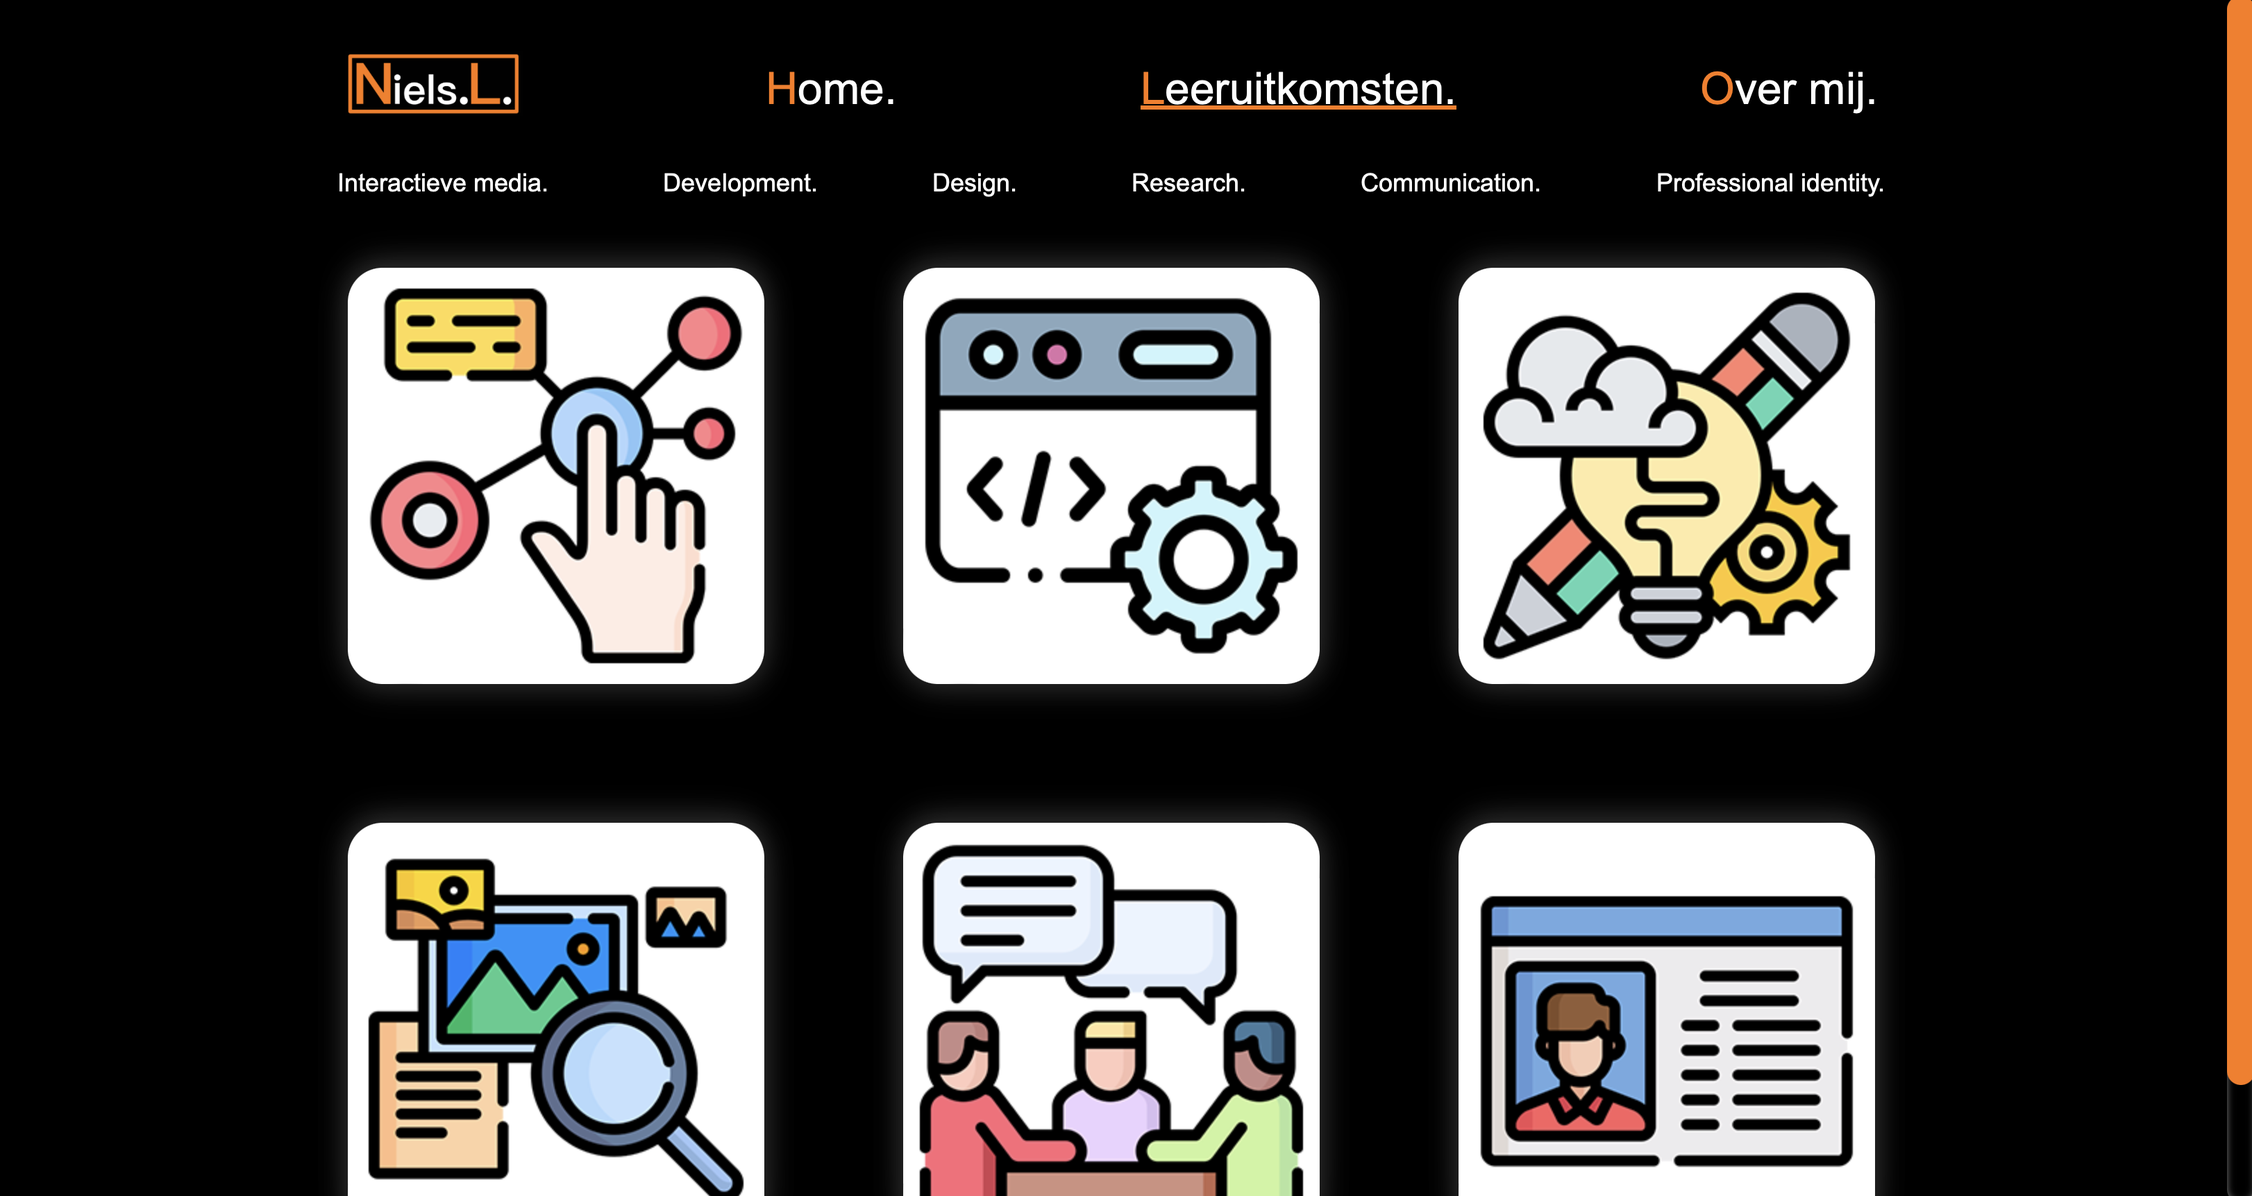
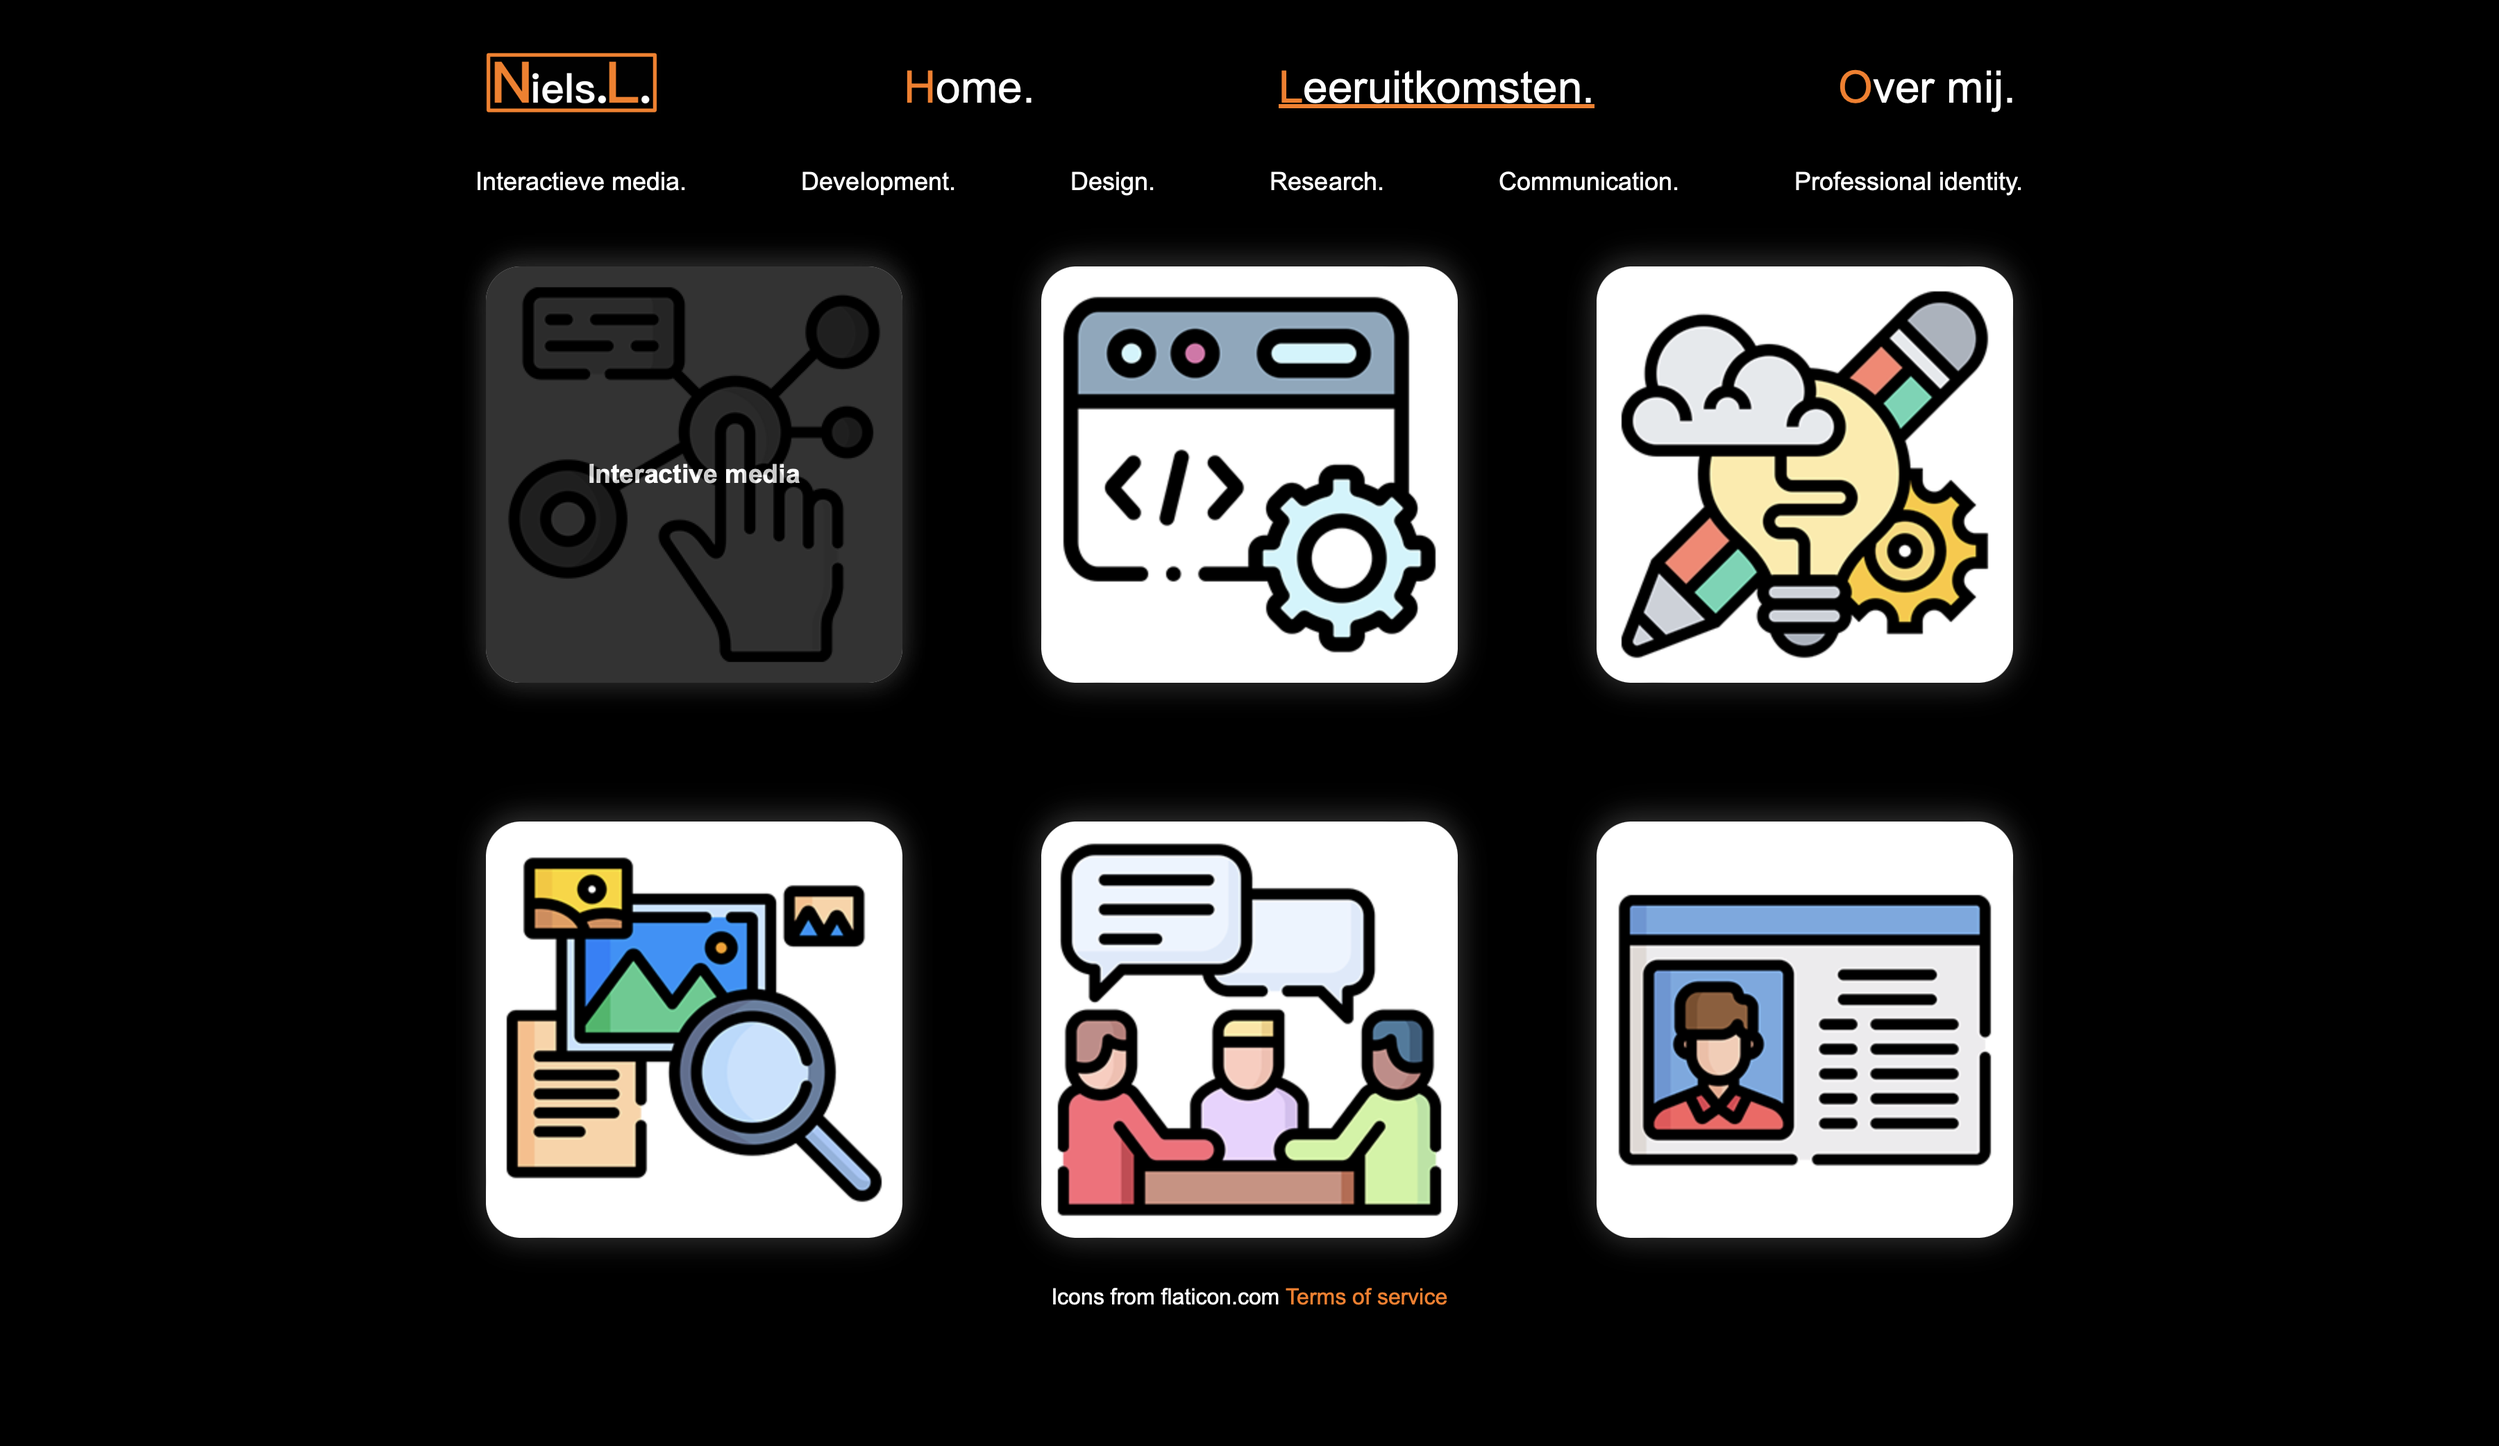
added images to semester 2

diff --git a/portofoliosemester2.html b/portofoliosemester2.html
@@ -22,6 +22,7 @@
         <div class="helftlinks">
             <img class="projectimage" src="images/semester2home.png">
             <img class="projectimage" src="images/semester2leeruitkomsten.png">
+            <img class="projectimage" src="images/semester2leeruitkomstendesign.png">
             <img class="projectimage" src="images/semester2overmij.png">
             <img class="projectimage" src="images/semester2easteregg.png">
         </div>
@@ -29,7 +30,7 @@
         <div class="helftrechtssticky">
             <h3>The project:</h3>
             <p class="projecttekst">This is the website I created in semester 2. I had to show all the learning outcomes. This website was not responsive. This is because this was not mandatory yet and we were not told exactly how to do this.</p>
-            <p>At the time this was a difficult project, cause I didn't know much about development. But I'm improving every month. My favorite color is orange, this is the reason for all the orange accents.</p>
+            <p>At the time this was a difficult project, cause I didn't know much about development. But I'm improving every month. In the second picture you can see if you hovered over a image you would see the name of the learningoutcome. This was the same for the projects within the learningoutcomes. My favorite color is orange, this is the reason for all the orange accents.</p>
             <p>I also made a fun easteregg on the homepage. If you clicked on the image of me it would redirect you to a different page. The last image on this page is the easteregg I had made. The reason of the easteregg is I had bought a macbook at the time. So I memed it.</p>
             <h3>Programs used for this project:</h3>
             <p class="projecttekst">Photoshop, Visual Studio Code(html, css)</p>
